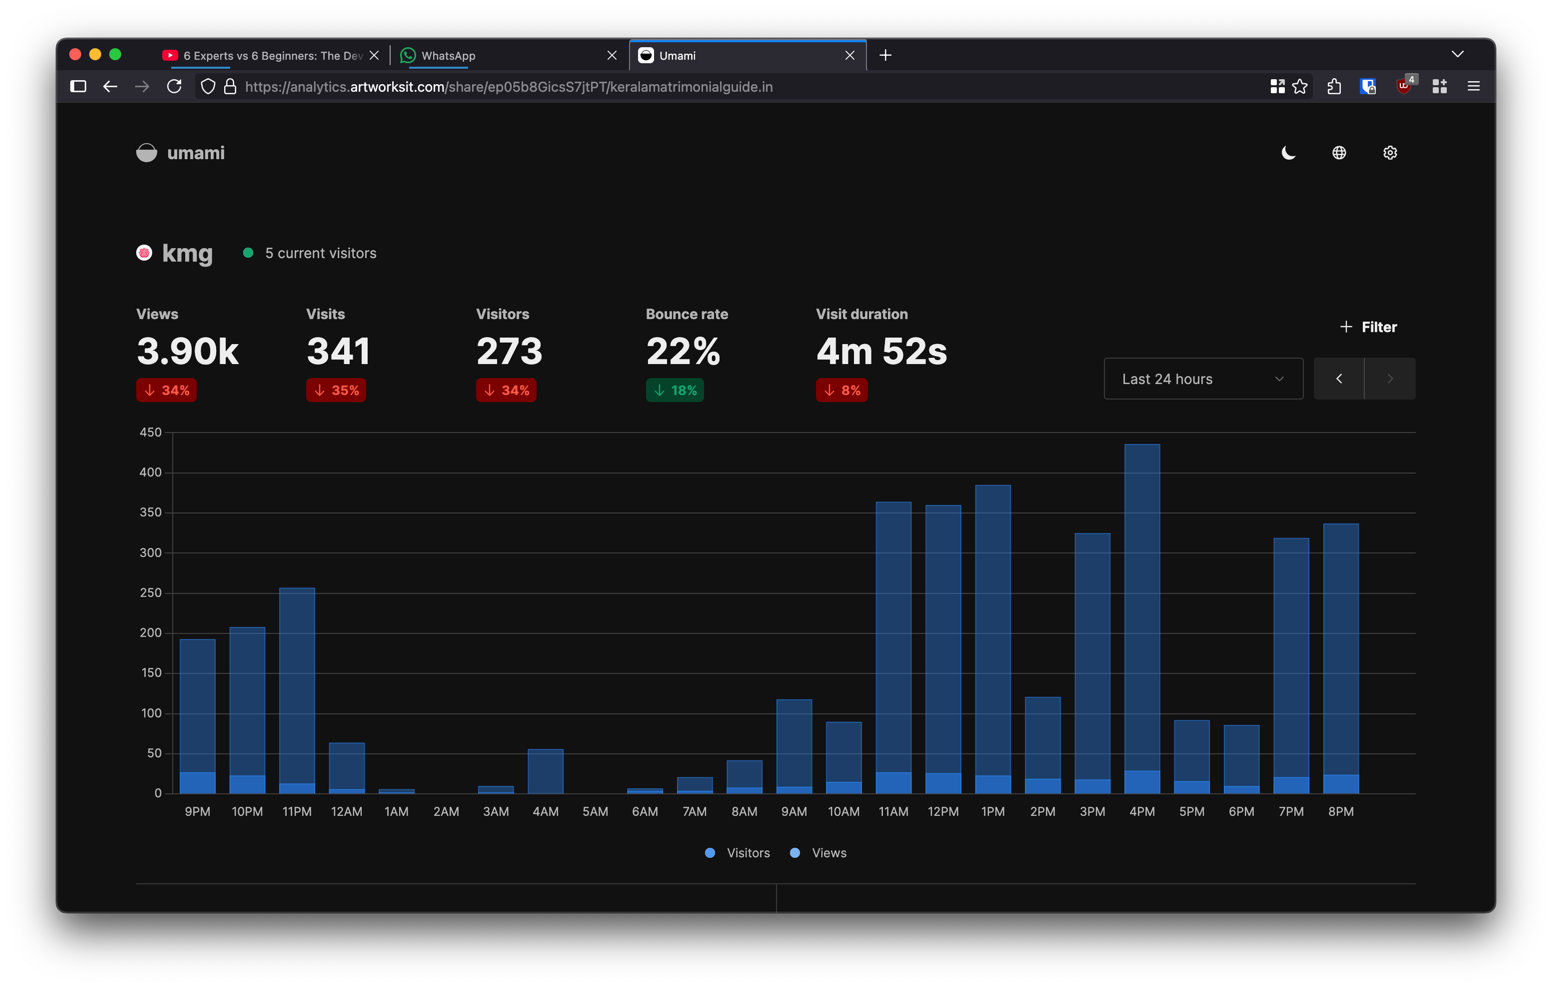
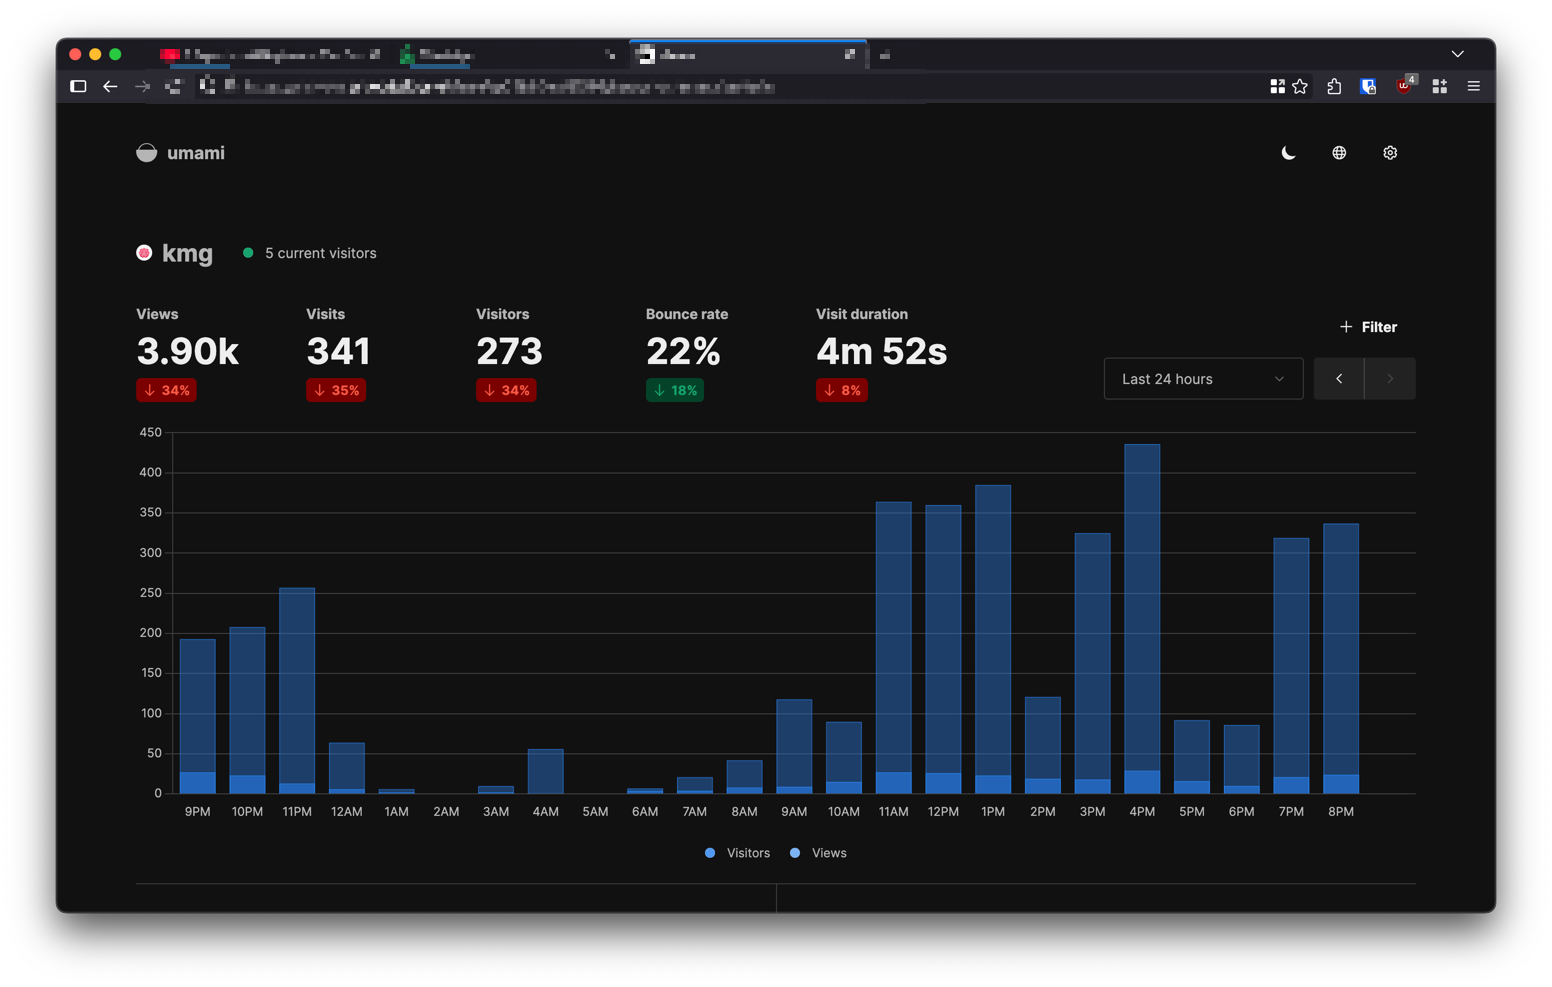
update

Changed region(s): [[0.0928, 0.0304, 0.4948, 0.1216], [0.5258, 0.0304, 0.5567, 0.0608]]

diff --git a/src/routes/projects/+page.svelte b/src/routes/projects/+page.svelte
@@ -15,7 +15,7 @@
 
 <SEO
 	title="Projects - Vinayak Dev | Backend Engineer"
-	description="In-depth case studies of production systems built by Vinayak Dev — covering architecture decisions, scaling challenges, and engineering trade-offs."
+	description="In-depth case studies of production systems built by Vinayak Dev - covering architecture decisions, scaling challenges, and engineering trade-offs."
 	keywords={['projects', 'portfolio', 'laravel', 'backend', 'system design', 'case study']}
 />
 

diff --git a/src/projects/keralamatrimonialguide/index.md b/src/projects/keralamatrimonialguide/index.md
@@ -9,25 +9,25 @@ featured: true
 
 ## Overview
 
-Keralamatrimonialguide is a matrimonial service platform I designed and built from scratch after a detailed requirements session with the client — a business that had been operating manually for four years. The goal was to digitise their workflow, remove pain points their customers repeatedly faced, and build a system that could grow without requiring a rewrite.
+Keralamatrimonialguide is a matrimonial service platform I designed and built from scratch after a detailed requirements session with the client a business that had been operating manually for four years. The goal was to digitise their workflow, remove pain points their customers repeatedly faced, and build a system that could grow without requiring a rewrite.
 
-The platform is live, actively growing, and currently handles **30,000+ page views per week** with a 68% week-over-week visitor growth rate. 93% of traffic is mobile — meaning every backend decision had to account for lean, fast responses on low-end Android devices over mobile data.
+The platform is live, actively growing, and currently handles **30,000+ page views per week** with a 68% week-over-week visitor growth rate. 93% of traffic is mobile meaning every backend decision had to account for lean, fast responses on low-end Android devices over mobile data.
 
 ---
 
 ## Platform at a Glance
 
-The admin dashboard gives a live view of the platform's state — ₹8,99,784 in total revenue processed, 2,639 paid accounts, and 4,200+ profiles across Hindu, Christian, and Muslim categories.
+The admin dashboard gives a live view of the platform's state ₹8,99,784 in total revenue processed, 2,639 paid accounts, and 4,200+ profiles across Hindu, Christian, and Muslim categories.
 
 ---
 
 ## 1. Schema Design with Realistic Load Simulation
 
-Before writing a single controller, I mapped the full domain model from the client's four years of operational experience. Every relationship — user profiles, subscription tiers, interests, profile views, contact requests — was planned upfront.
+Before writing a single controller, I mapped the full domain model from the client's four years of operational experience. Every relationship user profiles, subscription tiers, interests, profile views, contact requests was planned upfront.
 
 Crucially, I built out **Seeders and Model Factories** before building any feature. This let me populate the database with thousands of realistic profiles from day one of development, which exposed query performance problems at a simulated scale before they could ever reach production. Most developers skip this step and only discover slowness when real users are already affected.
 
-I also enabled **slow query logging** in the application layer — any query exceeding a threshold is flagged and logged, giving an early warning system before any query can become a production problem.
+I also enabled **slow query logging** in the application layer any query exceeding a threshold is flagged and logged, giving an early warning system before any query can become a production problem.
 
 **Result:** Zero performance incidents in production. The system has scaled to 3000+ active users without a single query-related outage.
 
@@ -35,11 +35,11 @@ I also enabled **slow query logging** in the application layer — any query exc
 
 ## 2. Tamper-Proof Audit Trail with Soft Deletes
 
-Every meaningful user action — account updates, profile edits, page-level interactions — is logged with a timestamp and the context of where in the application it occurred. This isn't just for analytics; it's a deliberate data protection layer.
+Every meaningful user action account updates, profile edits, page-level interactions is logged with a timestamp and the context of where in the application it occurred. This isn't just for analytics; it's a deliberate data protection layer.
 
-The system uses **soft deletes** throughout. Profile views, interest signals, and contact requests are never hard-deleted — they are preserved until an admin explicitly purges a profile. Transient session activity is cleaned up automatically via a **scheduled cron job** (running during off-peak hours) with a 3-month retention window.
+The system uses **soft deletes** throughout. Profile views, interest signals, and contact requests are never hard-deleted they are preserved until an admin explicitly purges a profile. Transient session activity is cleaned up automatically via a **scheduled cron job** (running during off-peak hours) with a 3-month retention window.
 
-This design proved its value in production. A subscriber deleted their own account and then contacted the client demanding a refund, claiming the platform was faulty. The audit logs showed the exact timestamp of the delete action and the page it was triggered from — a clear, timestamped record that resolved the dispute immediately.
+This design proved its value in production. A subscriber deleted their own account and then contacted the client demanding a refund, claiming the platform was faulty. The audit logs showed the exact timestamp of the delete action and the page it was triggered from a clear, timestamped record that resolved the dispute immediately.
 
 **Result:** Zero successful fraudulent refund claims. The audit system has been the deciding factor in at least one verified dispute.
 
@@ -47,11 +47,11 @@ This design proved its value in production. A subscriber deleted their own accou
 
 ## 3. Resilient Payment Infrastructure with Idempotent Webhooks
 
-The payment system supports **4 active payment gateways** — Razorpay as primary, with three fallbacks. Any system outside our control is treated as a potential point of failure, and a fallback exists for every one of them. Admins can switch gateways manually if needed.
+The payment system supports **4 active payment gateways** Razorpay as primary, with three fallbacks. Any system outside our control is treated as a potential point of failure, and a fallback exists for every one of them. Admins can switch gateways manually if needed.
 
-Every payment flows through a dedicated webhook endpoint. The endpoint does two things: it **validates the request signature** (HMAC verification to confirm the ping is genuinely from the gateway) and then **flips the subscription state** for the corresponding order — but only if that order is still in a pending state.
+Every payment flows through a dedicated webhook endpoint. The endpoint does two things: it **validates the request signature** (HMAC verification to confirm the ping is genuinely from the gateway) and then **flips the subscription state** for the corresponding order but only if that order is still in a pending state.
 
-That last condition is the idempotency guarantee. Razorpay will re-ping a webhook endpoint if it doesn't receive a `200 OK` response. Without the status check, a retry would double-credit a user. With it, the second ping finds an already-processed order and exits immediately. The endpoint returns `200` synchronously and fast — no heavy processing that could cause a timeout and trigger a false retry.
+That last condition is the idempotency guarantee. Razorpay will re-ping a webhook endpoint if it doesn't receive a `200 OK` response. Without the status check, a retry would double-credit a user. With it, the second ping finds an already-processed order and exits immediately. The endpoint returns `200` synchronously and fast no heavy processing that could cause a timeout and trigger a false retry.
 
 **Result:** Zero duplicate payment credits. Zero missed payments. The system handles Razorpay's retry behaviour correctly by design.
 
@@ -65,19 +65,19 @@ The stack includes **Flare** for real-time exception monitoring, **slow SQL quer
 
 The traffic data below also drove product decisions directly:
 
-<img src="/projects/kmg/traffic-7d.png" alt="Keralamatrimonialguide — 7-day traffic: 30.4k views, 1.9k visitors, growing 68% week-over-week" />
+<img src="/projects/kmg/traffic-7d.png" alt="Keralamatrimonialguide 7-day traffic: 30.4k views, 1.9k visitors, growing 68% week-over-week" />
 
-<img src="/projects/kmg/traffic-24h.png" alt="Keralamatrimonialguide — 24-hour traffic pattern showing peak usage in evening hours" />
+<img src="/projects/kmg/traffic-24h.png" alt="Keralamatrimonialguide 24-hour traffic pattern showing peak usage in evening hours" />
 
-Seeing that `/search` accounts for **55% of all page views** made it clear that the filtering backend — not the homepage — is the product's core, and that's where engineering effort has been prioritised.
+Seeing that `/search` accounts for **55% of all page views** made it clear that the filtering backend not the homepage is the product's core, and that's where engineering effort has been prioritised.
 
-<img src="/projects/kmg/traffic-pages.png" alt="Keralamatrimonialguide — page breakdown showing /search at 13.2k views, 93% mobile traffic" />
+<img src="/projects/kmg/traffic-pages.png" alt="Keralamatrimonialguide page breakdown showing /search at 13.2k views, 93% mobile traffic" />
 
 Key numbers visible here:
-- `/search` — 13,200 views (55% of all traffic)
-- **93% mobile**, 90% Android — the backend must serve lean, fast responses
-- **5m 48s average session** — deep user engagement, not casual browsing
-- 99% direct traffic — a highly retained, returning user base
+- `/search` 13,200 views (55% of all traffic)
+- **93% mobile**, 90% Android the backend must serve lean, fast responses
+- **5m 48s average session** deep user engagement, not casual browsing
+- 99% direct traffic a highly retained, returning user base
 
 **Result:** Issues are caught and resolved proactively. The platform has maintained consistent uptime with no user-reported performance degradation.
 
@@ -85,11 +85,11 @@ Key numbers visible here:
 
 ## 5. Scalable Search Architecture with a Clear Growth Roadmap
 
-Search is the heart of the product — users filter profiles by age (date of birth range), caste, religion, and marital status. The query is built using a **dedicated Eloquent query scope** that composes these filters cleanly, keeping the controller thin and the filtering logic testable and reusable.
+Search is the heart of the product users filter profiles by age (date of birth range), caste, religion, and marital status. The query is built using a **dedicated Eloquent query scope** that composes these filters cleanly, keeping the controller thin and the filtering logic testable and reusable.
 
-Indexes are in place on the most-used filter columns — `dob`, `caste`, `religion`, and `marital_status`. Infinite scroll is handled with server-side pagination, avoiding the client needing to load all profiles upfront.
+Indexes are in place on the most-used filter columns `dob`, `caste`, `religion`, and `marital_status`. Infinite scroll is handled with server-side pagination, avoiding the client needing to load all profiles upfront.
 
-The current architecture is designed to serve up to ~10,000 profiles efficiently. Beyond that, two known limitations kick in: **OFFSET-based pagination** becomes expensive as users scroll deeper, and **single-column indexes** stop being effective when multiple filters combine. The planned solution — already scoped — is a **read replica** for all search queries and a migration to **cursor-based pagination** with **composite indexes** on the most common filter combinations.
+The current architecture is designed to serve up to ~10,000 profiles efficiently. Beyond that, two known limitations kick in: **OFFSET-based pagination** becomes expensive as users scroll deeper, and **single-column indexes** stop being effective when multiple filters combine. The planned solution already scoped is a **read replica** for all search queries and a migration to **cursor-based pagination** with **composite indexes** on the most common filter combinations.
 
 **Result:** Search performs fast at current scale. The scaling ceiling is known, documented, and has a concrete solution already designed.
 
@@ -97,7 +97,7 @@ The current architecture is designed to serve up to ~10,000 profiles efficiently
 
 ## What's Next
 
-- **Algorithmic profile matching** — ranking profiles by compatibility score rather than just filtering
-- **Weekly digest notifications** — a queue-driven system that batches and sends each subscriber a curated list of new profiles matching their preferences
-- **Ticketing system** — structured support workflow for the admin team
-- **PWA push notifications** — already in progress, enabling native-like re-engagement on Android
+- **Algorithmic profile matching** ranking profiles by compatibility score rather than just filtering
+- **Weekly digest notifications** a queue-driven system that batches and sends each subscriber a curated list of new profiles matching their preferences
+- **Ticketing system** structured support workflow for the admin team
+- **PWA push notifications** already in progress, enabling native-like re-engagement on Android
